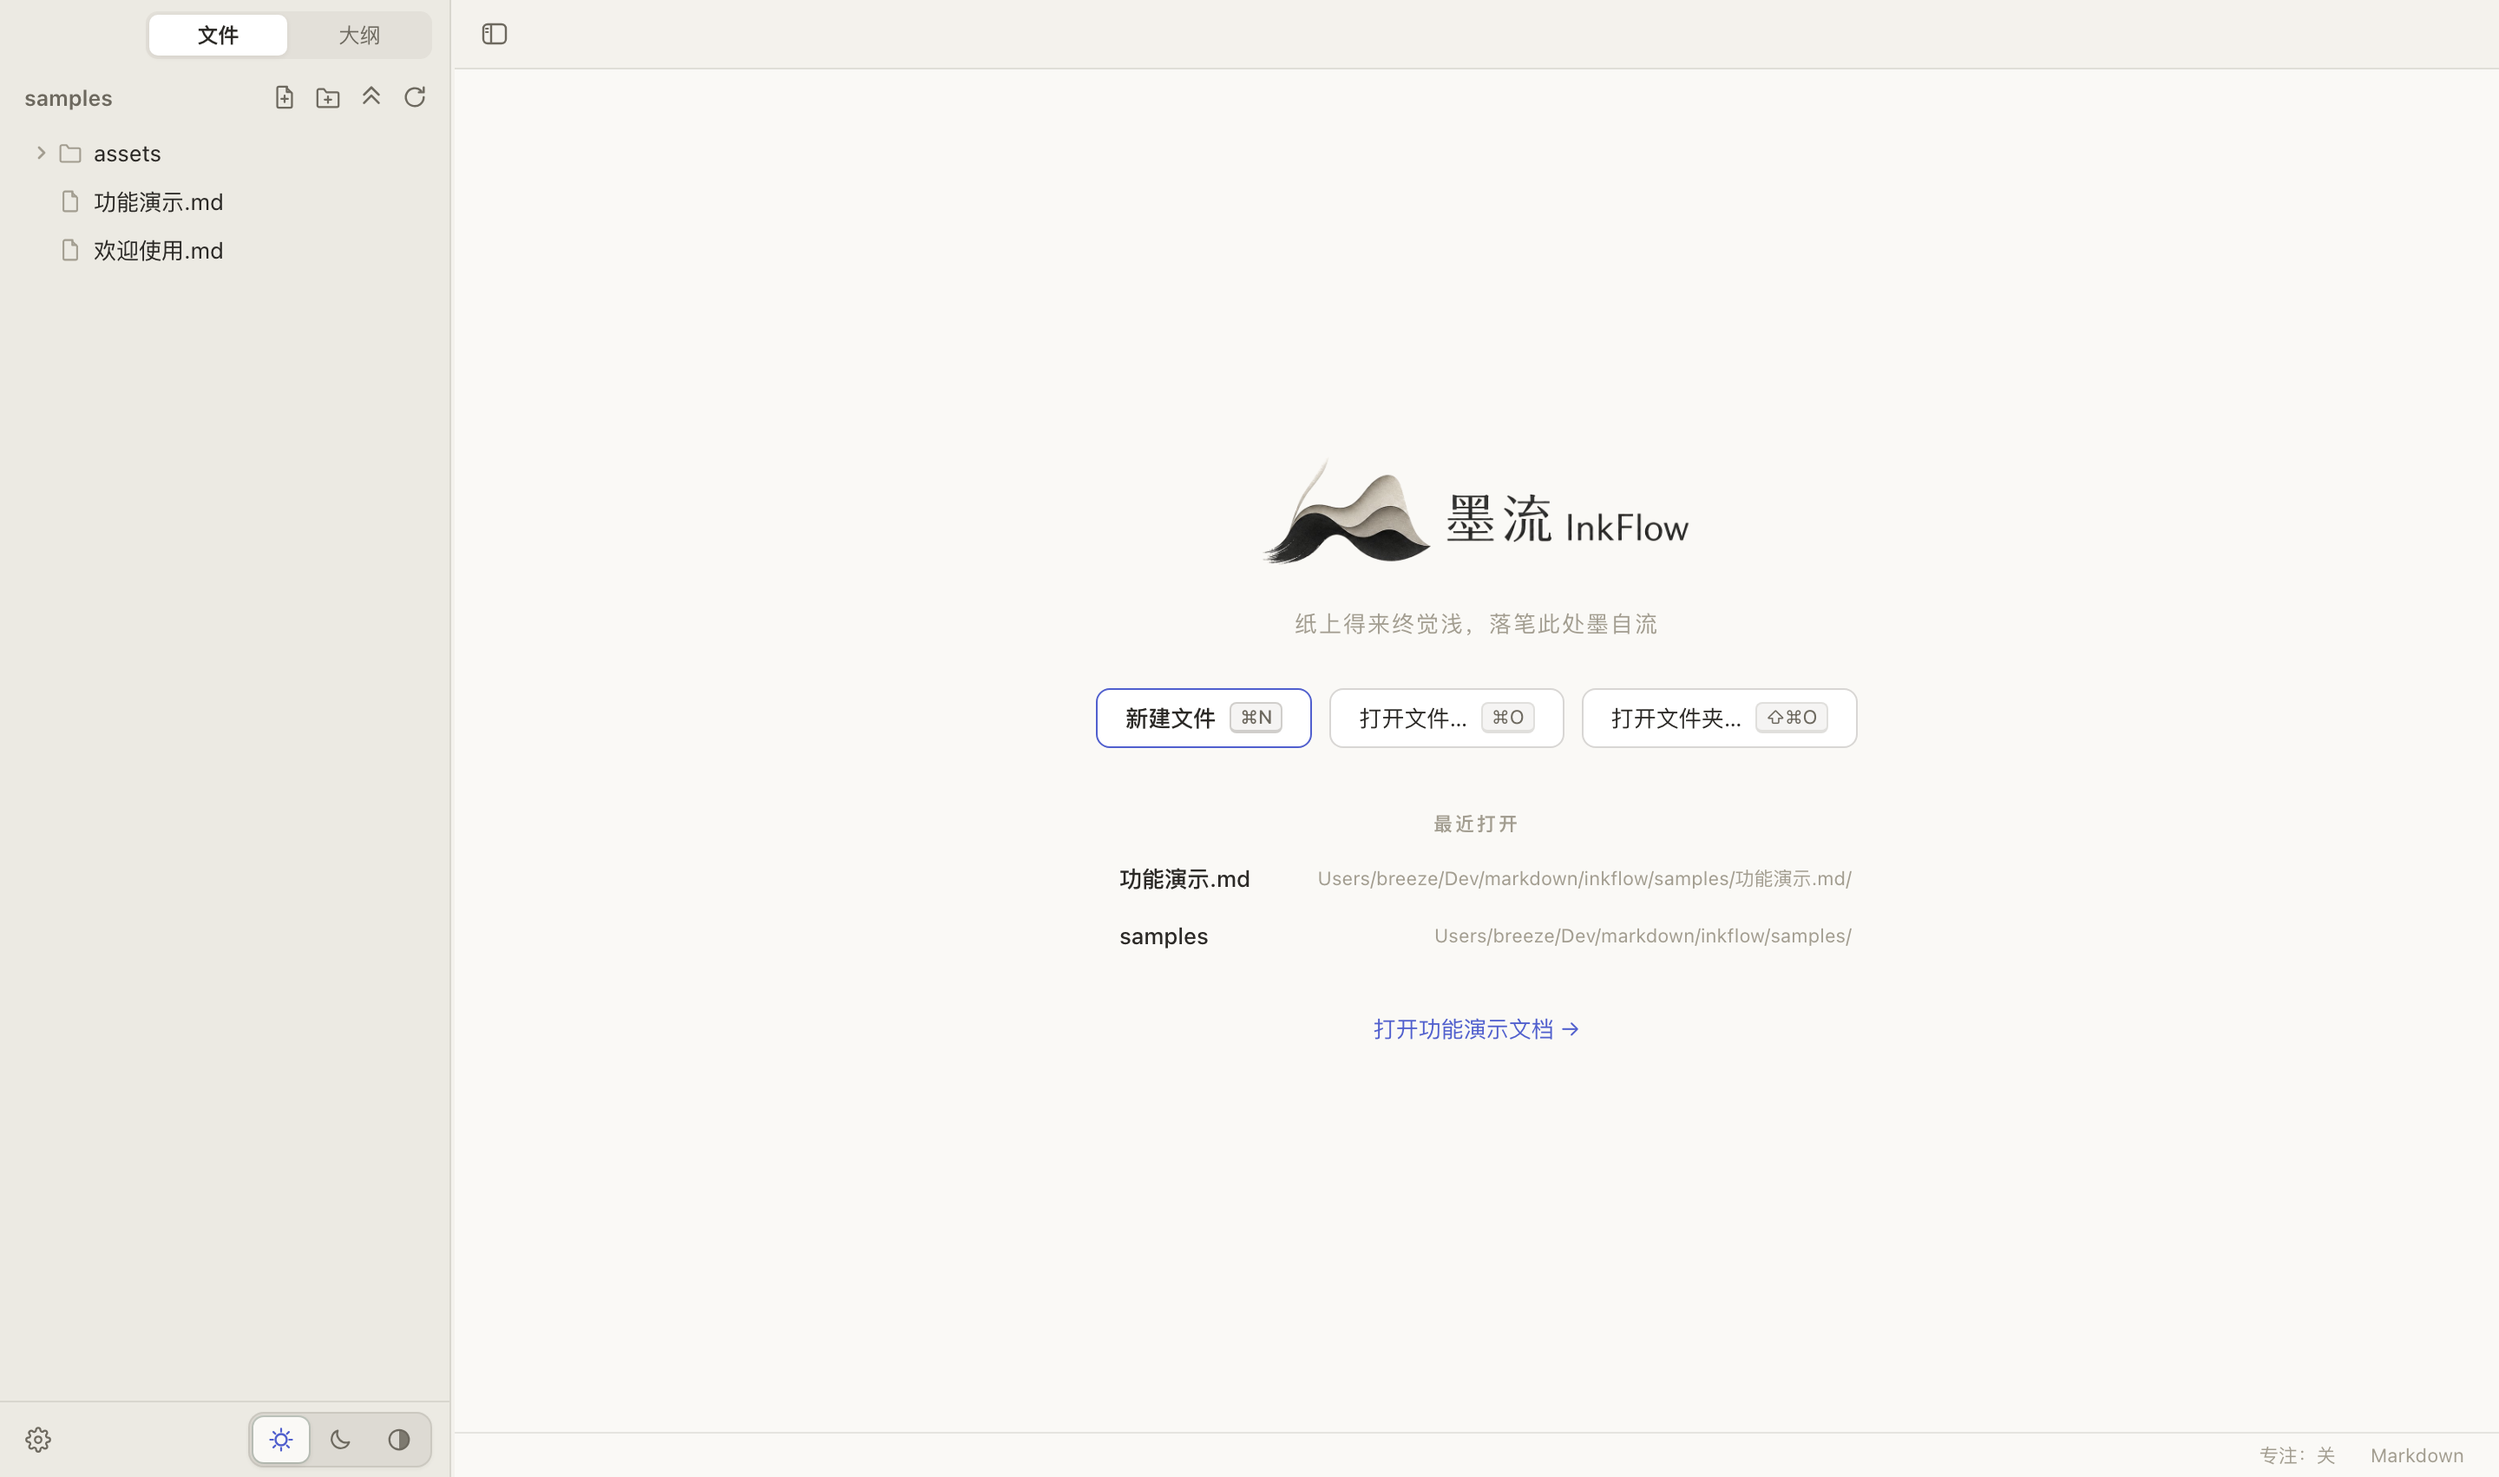
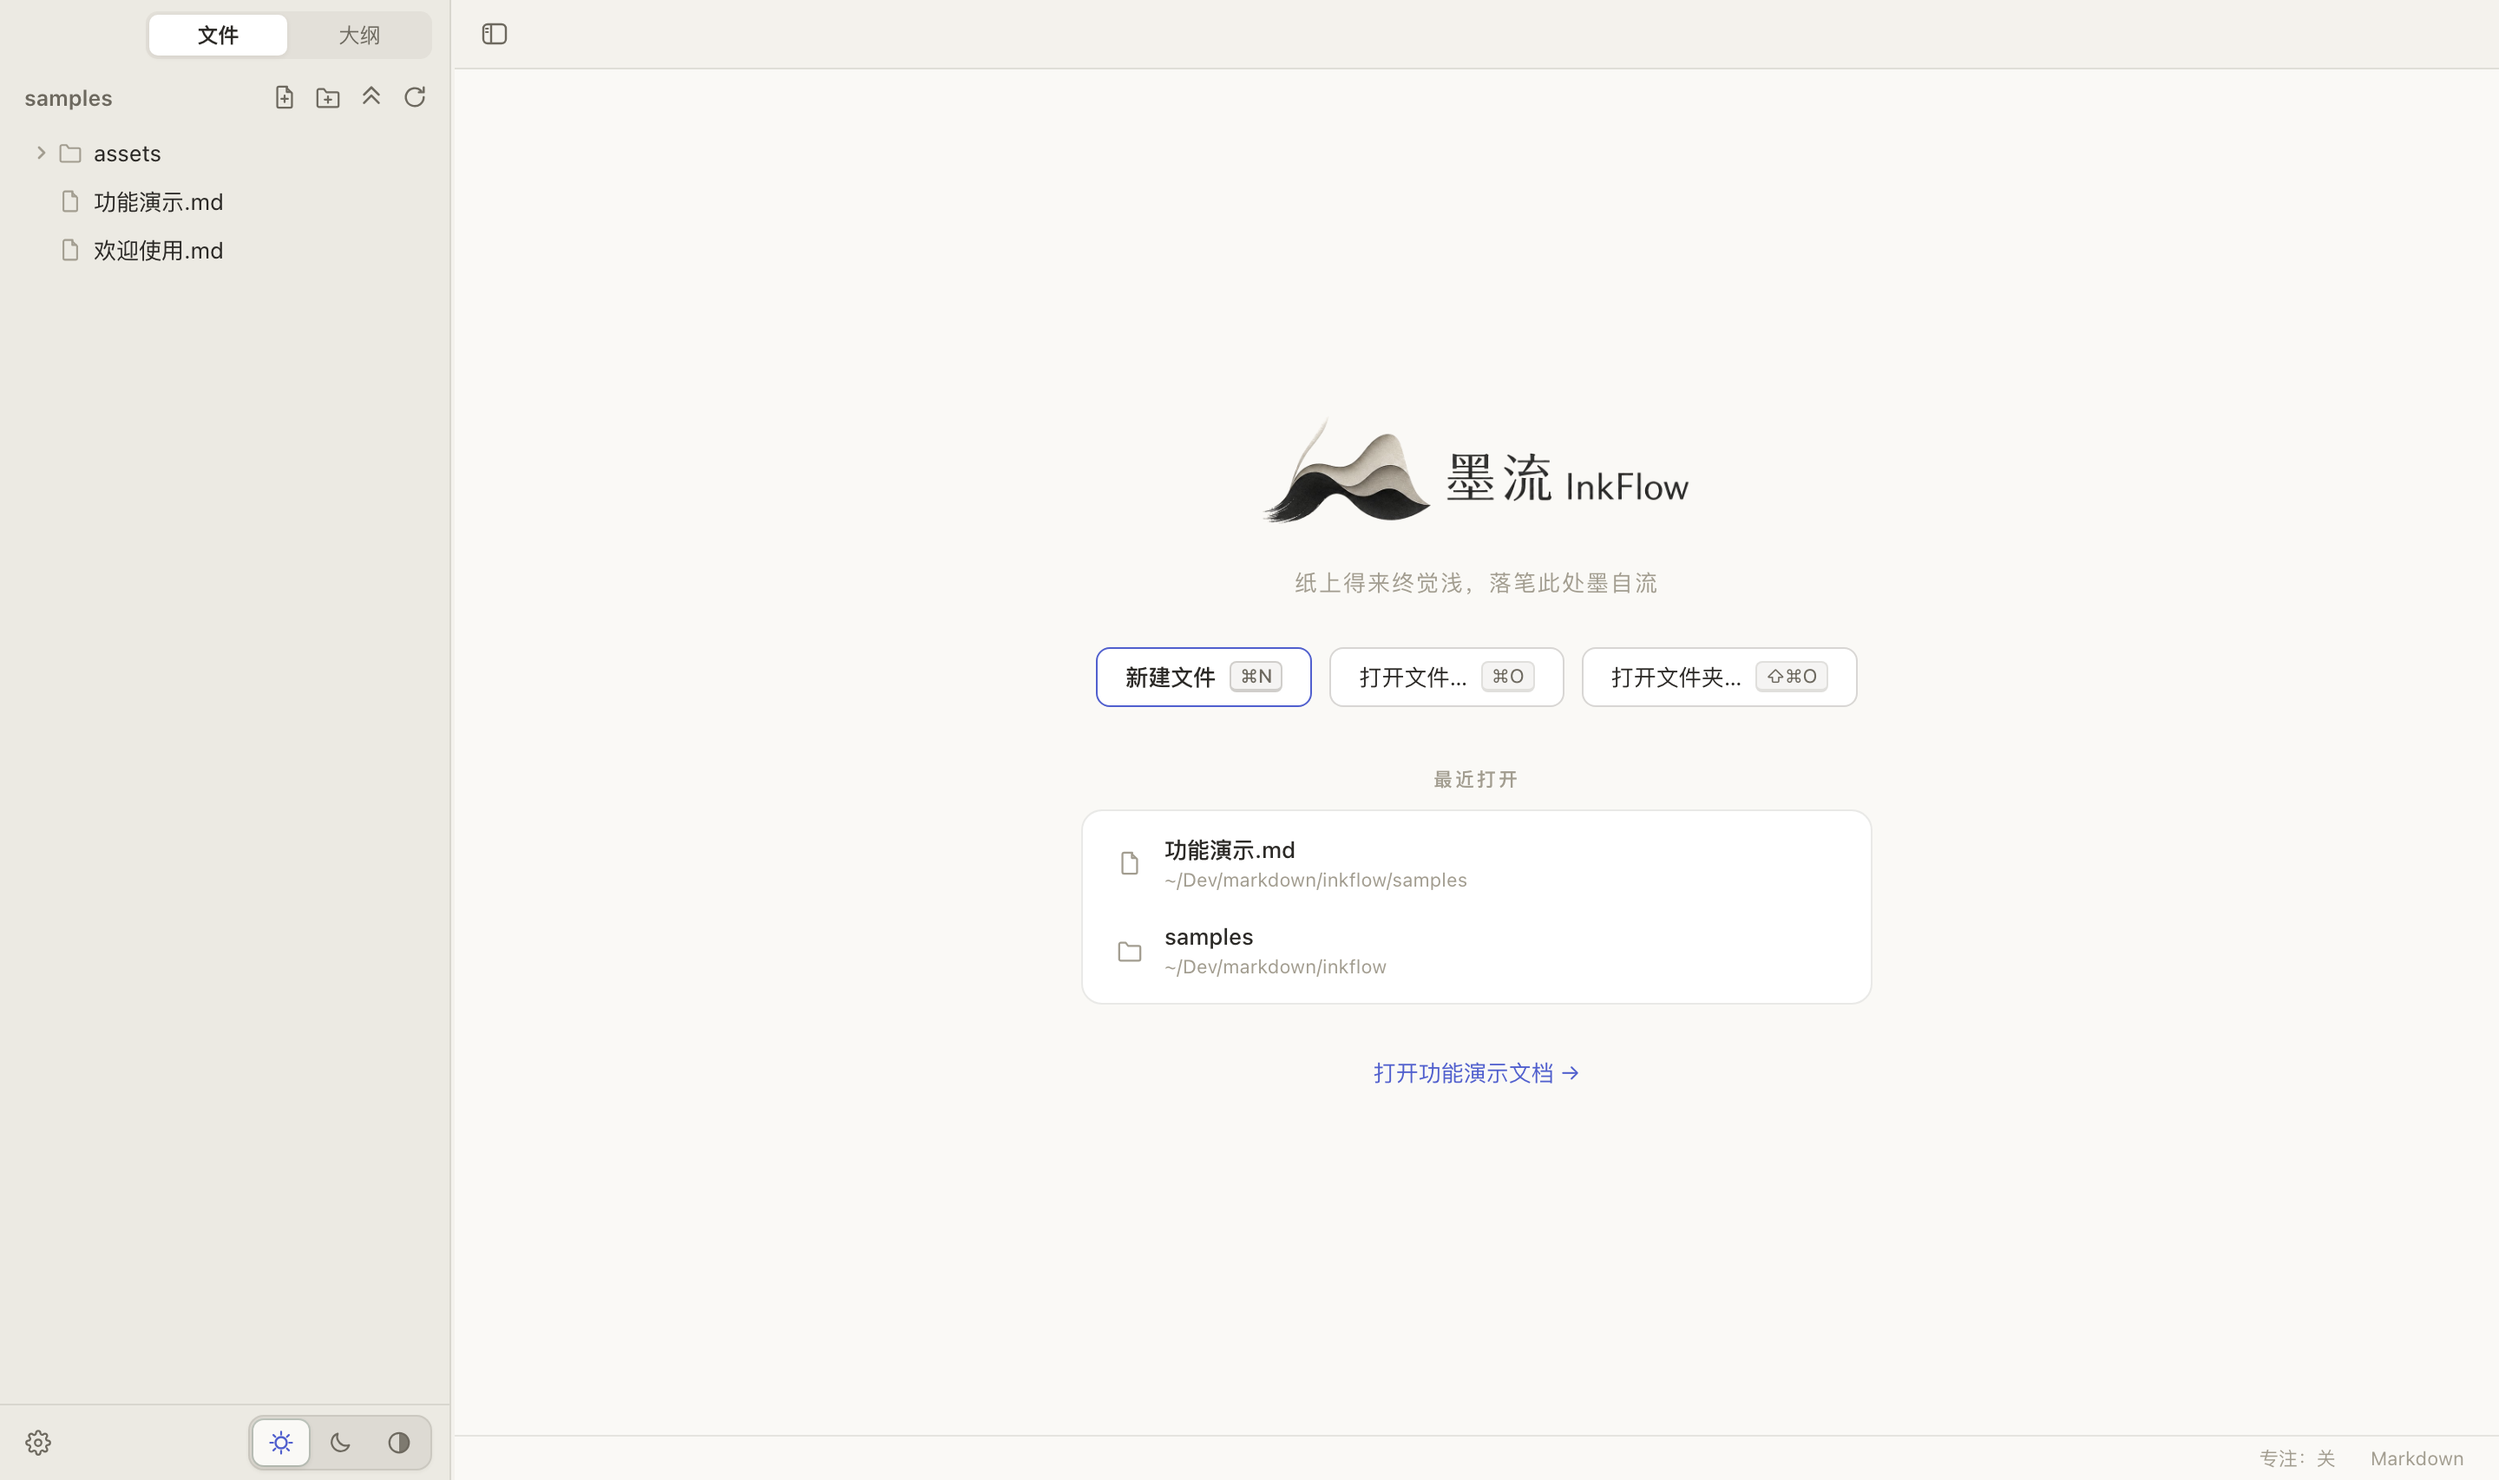
style: 欢迎页最近打开列表排版重构（两行式+卡片容器+路径美化），回归 38/38

diff --git a/renderer/css/app.css b/renderer/css/app.css
@@ -501,37 +501,54 @@ kbd {
   color: var(--text-2);
 }
 
-#welcome-recent-wrap { margin-top: 36px; text-align: left; }
+#welcome-recent-wrap { margin-top: 34px; text-align: left; }
 #welcome-recent-wrap h3 {
   font-size: 11px;
   font-weight: 600;
   color: var(--text-3);
   text-transform: uppercase;
   letter-spacing: 1.5px;
-  margin-bottom: 8px;
+  margin-bottom: 10px;
   text-align: center;
 }
-#welcome-recent { display: flex; flex-direction: column; gap: 2px; }
+/* 卡片容器：列表整体收进一张纸里 */
+#welcome-recent {
+  display: flex; flex-direction: column;
+  background: var(--bg-elevated);
+  border: 1px solid var(--border);
+  border-radius: 12px;
+  padding: 5px;
+}
+/* 两行式：上行图标+文件名，下行路径（全宽、从左侧截断保留尾部） */
 .welcome-recent-item {
-  display: flex;
-  align-items: center;
-  gap: 10px;
-  padding: 7px 12px;
-  border-radius: var(--radius-m);
+  display: grid;
+  grid-template-columns: 20px 1fr;
+  column-gap: 10px;
+  padding: 8px 12px;
+  border-radius: 8px;
   cursor: pointer;
   transition: background .12s var(--ease);
 }
 .welcome-recent-item:hover { background: var(--bg-sidebar-hover); }
-.welcome-recent-item .wri-name { font-size: 13px; font-weight: 500; }
+.welcome-recent-item .ov-ico {
+  grid-row: 1 / 3;
+  align-self: center;
+  display: flex; align-items: center; justify-content: center;
+  color: var(--text-3);
+}
+.welcome-recent-item .ov-ico svg { width: 15px; height: 15px; }
+.welcome-recent-item .wri-name {
+  font-size: 13px; font-weight: 500; color: var(--text-1);
+  overflow: hidden; text-overflow: ellipsis; white-space: nowrap;
+  line-height: 1.45;
+}
 .welcome-recent-item .wri-path {
-  flex: 1;
   font-size: 11px;
   color: var(--text-3);
   overflow: hidden;
   text-overflow: ellipsis;
   white-space: nowrap;
-  direction: rtl;
-  text-align: right;
+  line-height: 1.4;
 }
 .welcome-recent-empty { text-align: center; color: var(--text-faint); font-size: 12px; padding: 10px 0; }
 

diff --git a/renderer/js/app.js b/renderer/js/app.js
@@ -744,8 +744,10 @@ const App = {
       const ico = el('span', 'ov-ico');
       ico.innerHTML = type === 'folder' ? ICONS.folder : ICONS.file;
       item.appendChild(ico);
-      item.appendChild(el('span', 'wri-name', P.basename(p)));
-      item.appendChild(el('span', 'wri-path', p));
+      item.appendChild(el('span', 'wri-name', P.basename(p.replace(/\/$/, ''))));
+      // 路径只显示所在目录（文件名上行已有）：home 缩写为 ~，CSS 负责从左侧截断
+      const pretty = P.dirname(p.replace(/\/$/, '')).replace(/^\/Users\/[^/]+/, '~');
+      item.appendChild(el('span', 'wri-path', pretty));
       item.onclick = () => this.openPath(p);
       box.appendChild(item);
     }
